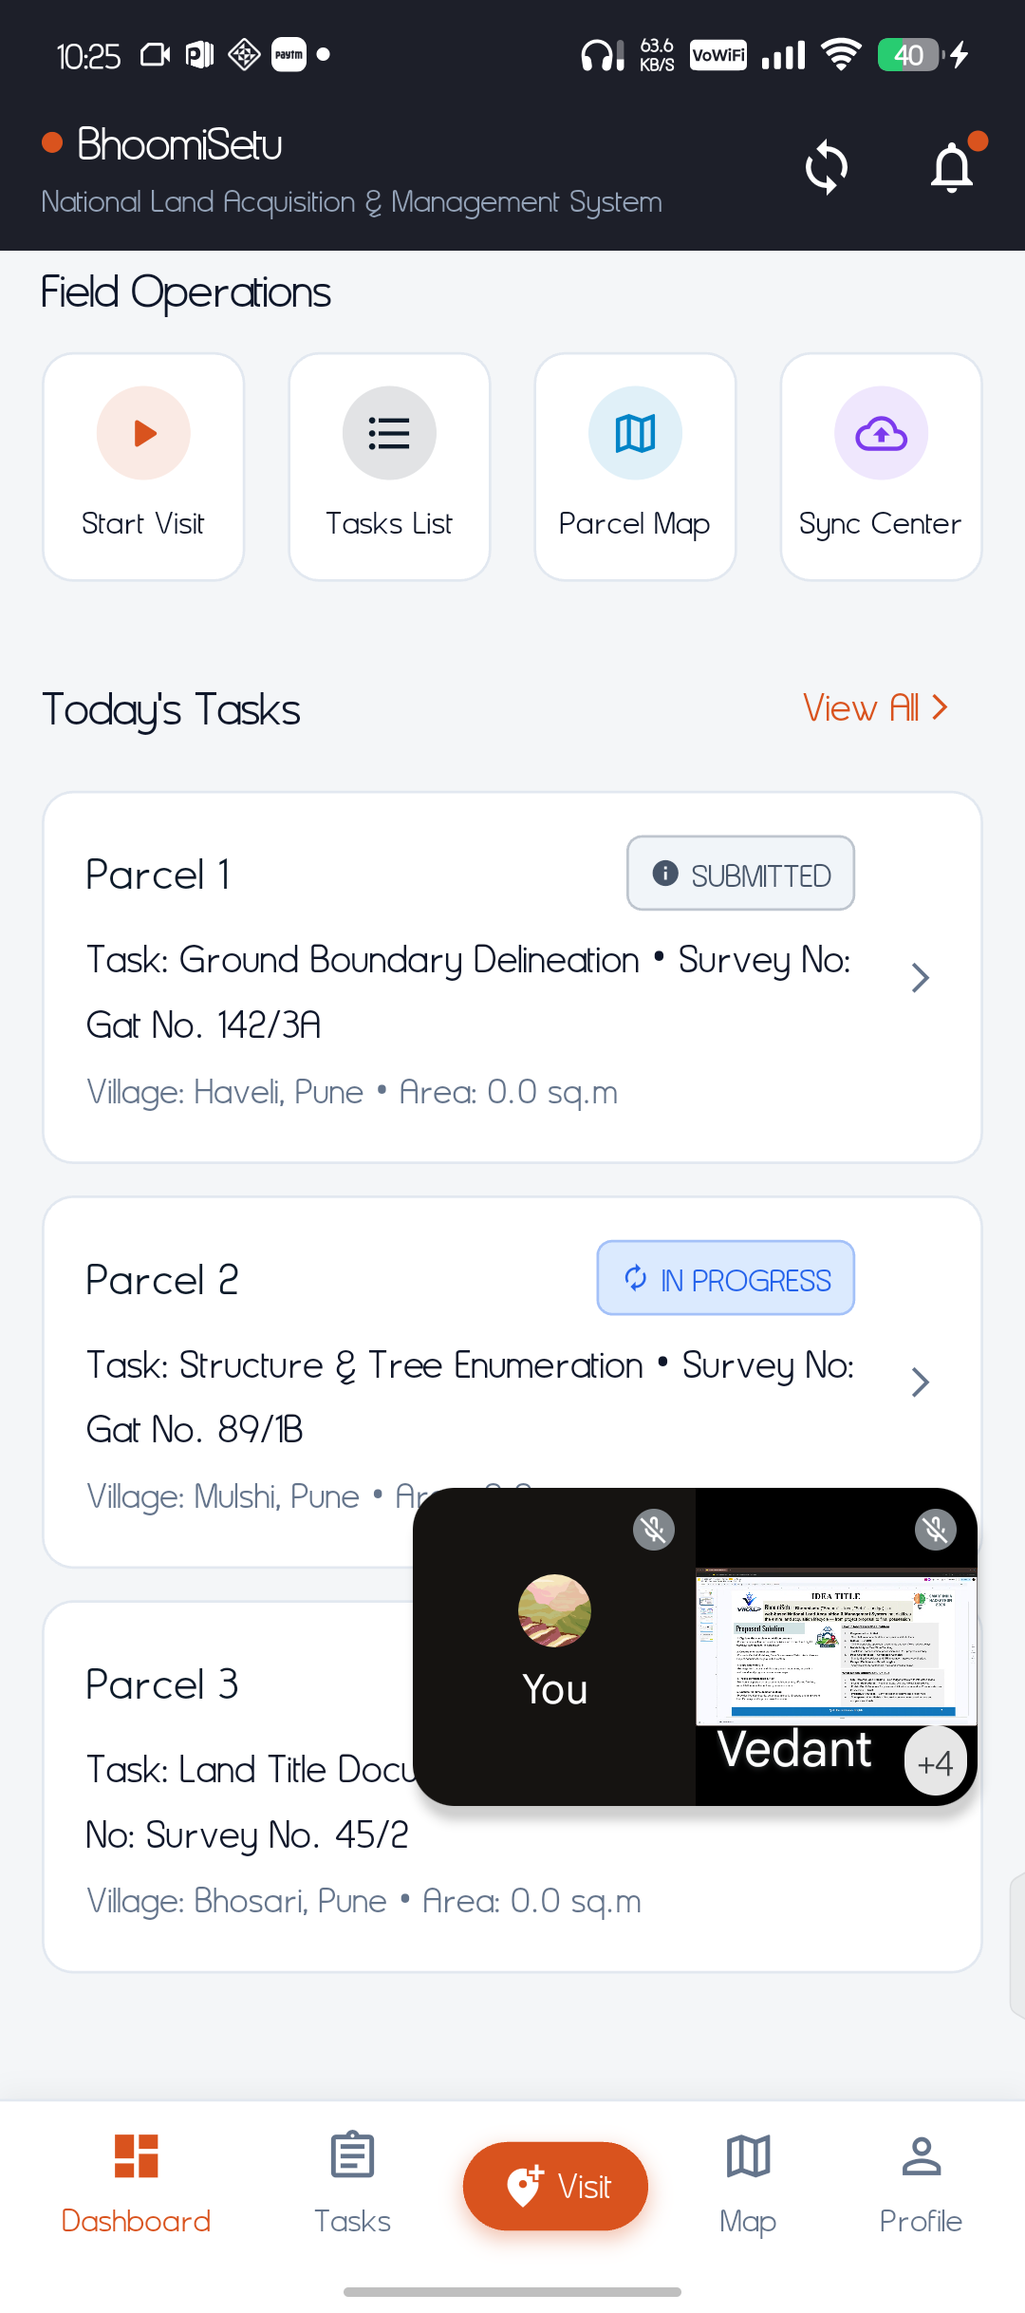
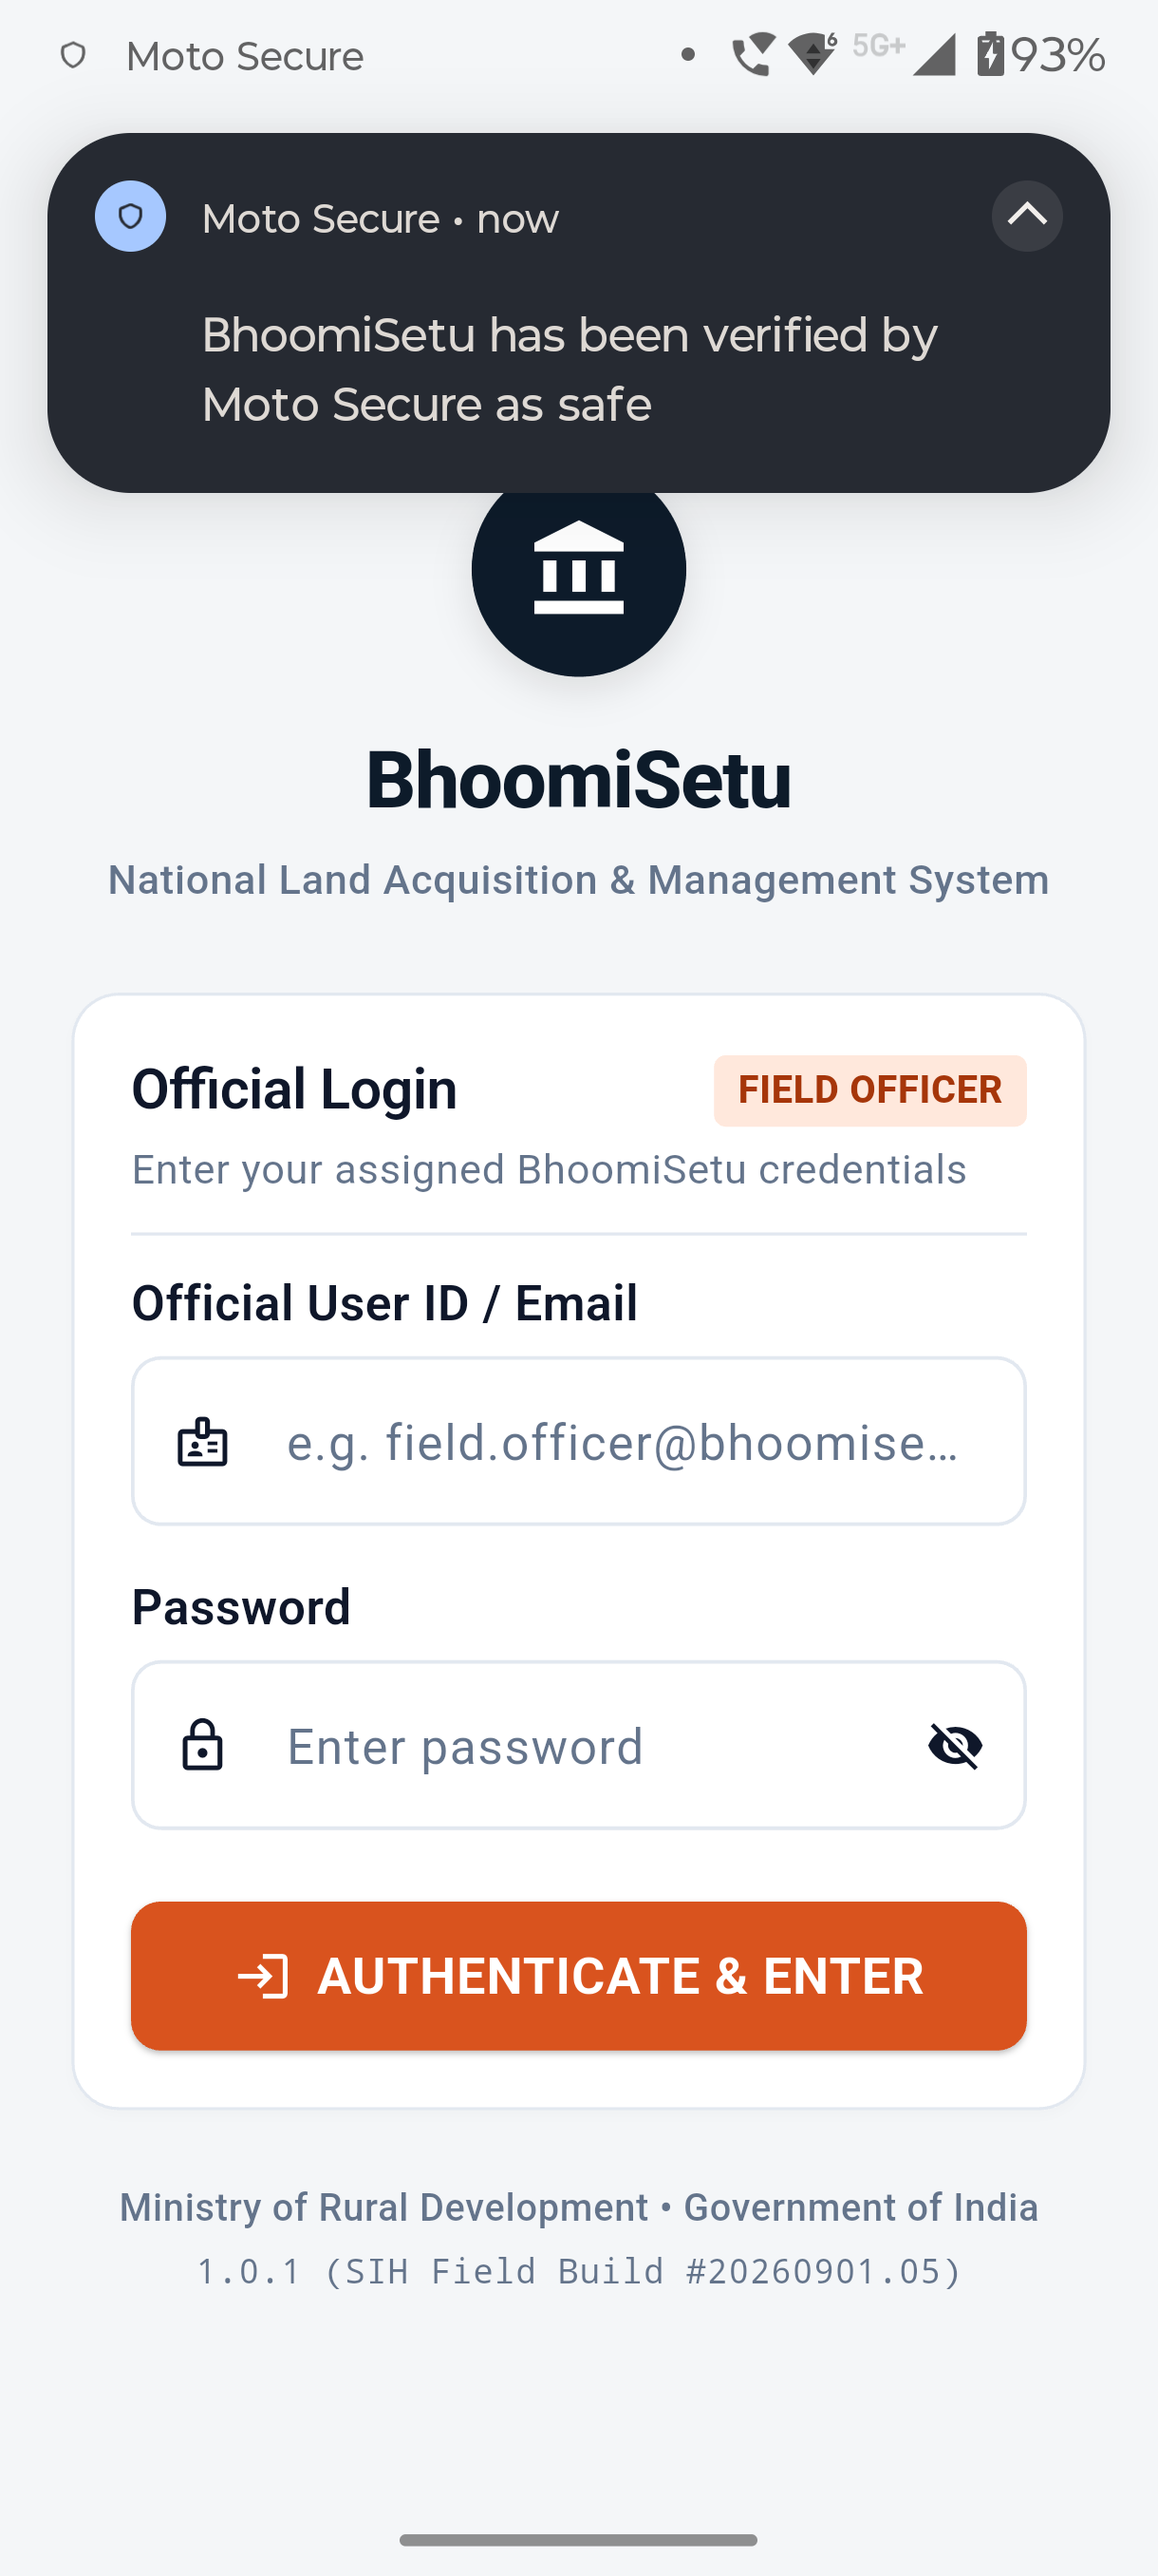
build(field-officer-app): bump version to 1.0.1+5 and update build tag for physical device deployment

diff --git a/field-officer-app/lib/core/constants/app_constants.dart b/field-officer-app/lib/core/constants/app_constants.dart
@@ -7,7 +7,7 @@ class AppConstants {
   static const String appName = 'BhoomiSetu';
   static const String appTagline = 'National Land Acquisition & Management System';
   static const String ministry = 'Ministry of Rural Development & Land Resources';
-  static const String appVersion = '1.0.0 (SIH Field Build #20260831.04)';
+  static const String appVersion = '1.0.1 (SIH Field Build #20260901.05)';
 
   // Demo Credentials (Match FastAPI Seed Users)
   static const String demoEmail = 'field.demo@example.com';
@@ -18,8 +18,8 @@ class AppConstants {
   static const String demoState = 'Maharashtra';
   static const String demoDistrict = 'Pune';
 
-  // Default API Base URL (LAN IPv4 for Backend)
-  static const String defaultApiBaseUrl = 'http://10.50.8.209:5000';
+  // Default API Base URL (ADB Reverse / Localhost)
+  static const String defaultApiBaseUrl = 'http://127.0.0.1:5000';
 
   // GPS Accuracy threshold in meters (threshold for warning banner)
   static const double gpsAccuracyThresholdMeters = 15.0;
